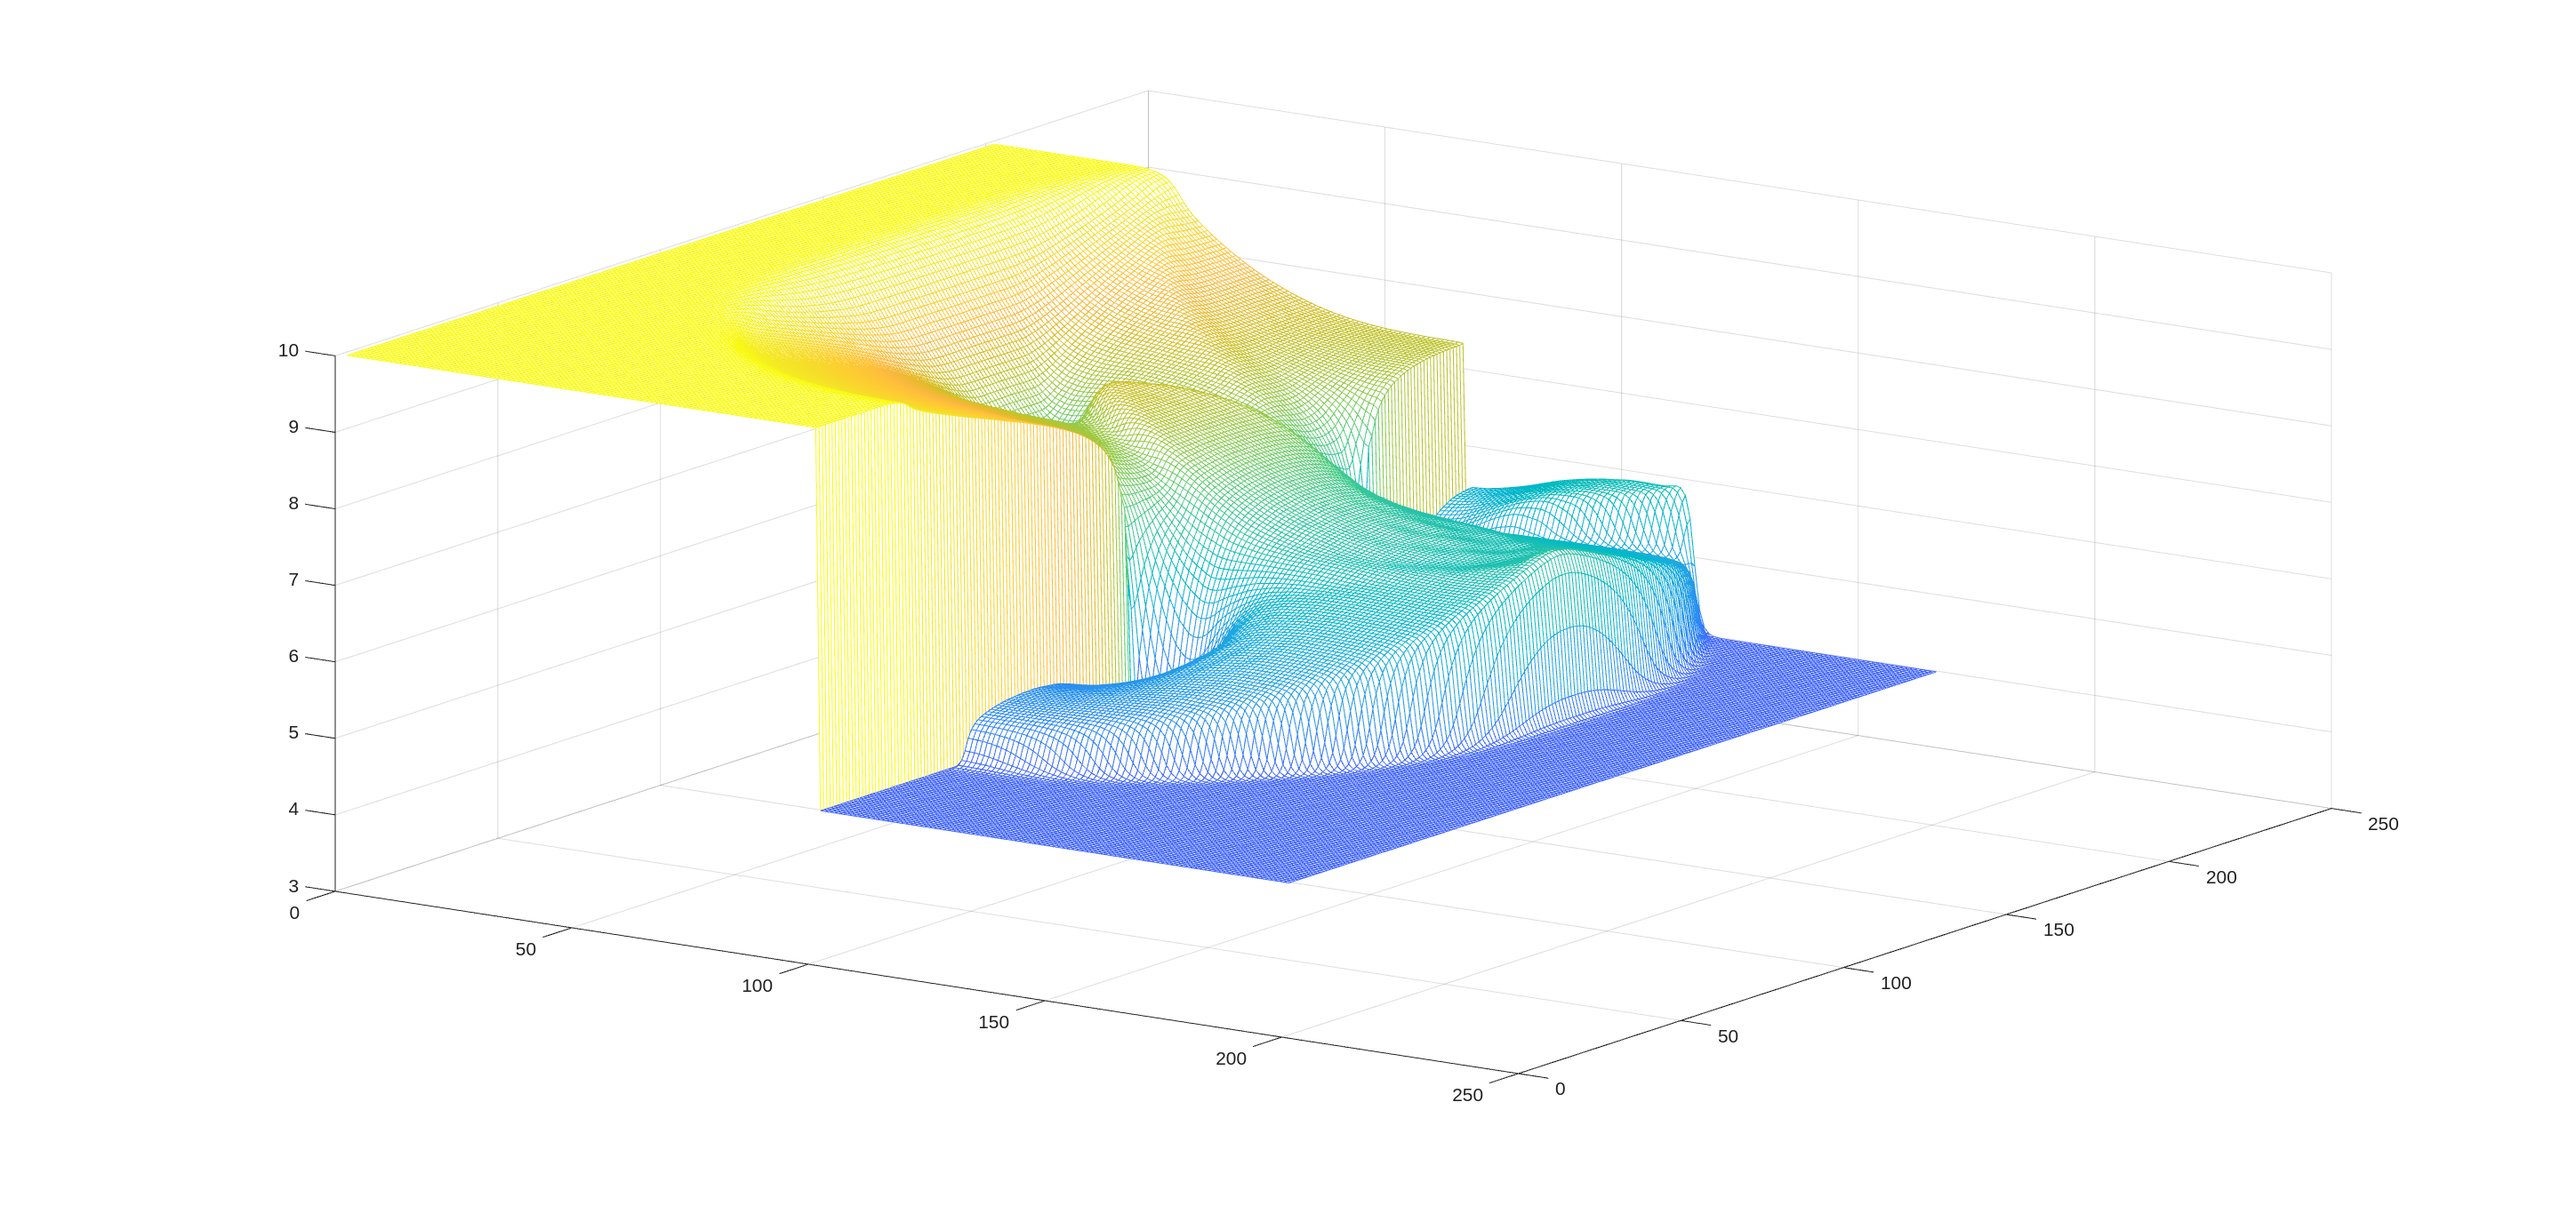
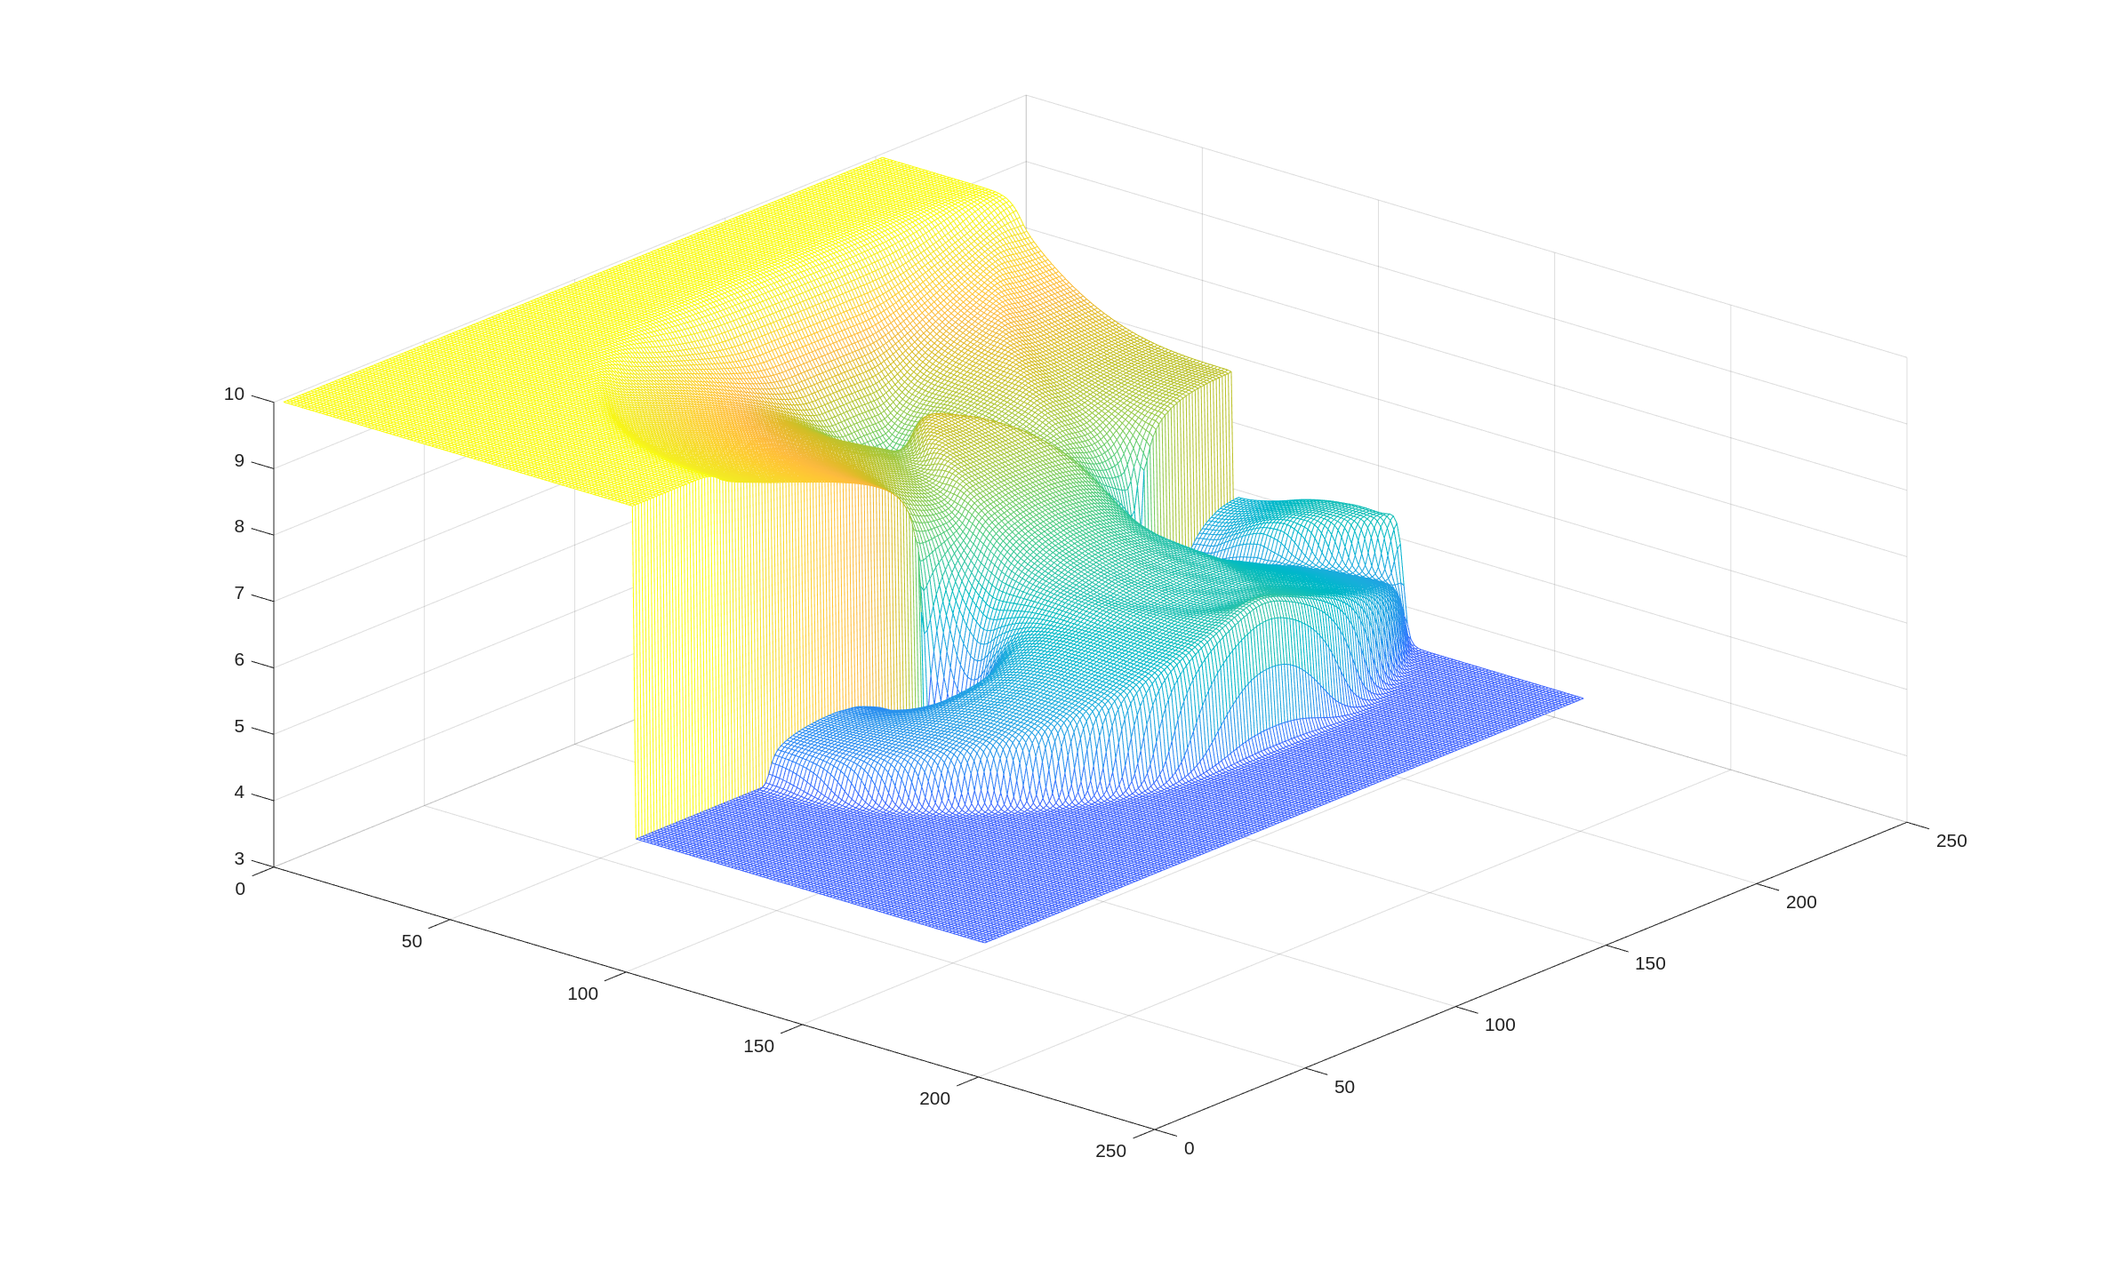
Parallelize the Rusanov code and make the figure to compare the results with 1 threads

diff --git a/2DShallow-water-Dam-Break-OMP/main.c b/2DShallow-water-Dam-Break-OMP/main.c
@@ -103,6 +103,7 @@ void Calculation(float *u,float *v,float *s,float *mass_F,float *momentum_F_X,fl
 	for (int timestep = 0; timestep < MAX_TIMESTEPS; timestep++){
 		float Smax_X = 0.0;
 		float Smax_Y = 0.0;
+		//#pragma omp for
 		for (int i = 1;i < NX+1;i++){
 			for (int j = 1;j < NY+1;j++){
 				int index = i*(NY+2)+j;
@@ -134,7 +135,7 @@ void Calculation(float *u,float *v,float *s,float *mass_F,float *momentum_F_X,fl
   		} else {
 	            	//printf("Ran out of timesteps before reaching target time.\n");
    		}
-
+		#pragma omp for
 		for(int j = 0; j < NY+2; j++){
             		mass[0*(NY+2)+j] = mass[1*(NY+2)+j];
             		momentum_X[0*(NY+2)+j] = momentum_X[1*(NY+2)+j]; 
@@ -145,6 +146,7 @@ void Calculation(float *u,float *v,float *s,float *mass_F,float *momentum_F_X,fl
             		momentum_Y[(NX+1)*(NY+2)+j] = momentum_Y[NX*(NY+2)+j];
 
 		}
+		#pragma omp for
         	for(int i = 0; i < NX+2; i++){
             		mass[i*(NY+2)+0] = mass[i*(NY+2)+1];
             		momentum_X[i*(NY+2)+0] = momentum_X[i*(NY+2)+1];
@@ -154,7 +156,7 @@ void Calculation(float *u,float *v,float *s,float *mass_F,float *momentum_F_X,fl
             		momentum_X[i*(NY+2)+NY+1] = momentum_X[i*(NY+2)+NY];
             		momentum_Y[i*(NY+2)+NY+1] = -momentum_Y[i*(NY+2)+NY]; // 上牆反彈
         	}
-		
+		#pragma omp for
 		for(int i = 0; i < NX+2; i++){
                         for (int j = 0; j < NY+2; j++){
                                 int index = i*(NY+2)+j;
@@ -163,6 +165,7 @@ void Calculation(float *u,float *v,float *s,float *mass_F,float *momentum_F_X,fl
                                 v[index] = momentum_Y[index]/mass[index];
                         }
                 }
+		#pragma omp for
 		for(int i = 1;i < NX+1;i++){
 			for(int j = 0;j < NY+2;j++){
 				int index = i*(NY+2)+j;
@@ -180,6 +183,7 @@ void Calculation(float *u,float *v,float *s,float *mass_F,float *momentum_F_X,fl
 //			printf("mass_slope[%d] = %f\n",i,mass_slope[i]);
 			}
 		}
+		#pragma omp for
 		for(int i = 0;i < NX+2;i++){
                         for(int j = 1;j < NY+1;j++){
                                 int index = i*(NY+2)+j;
@@ -197,7 +201,7 @@ void Calculation(float *u,float *v,float *s,float *mass_F,float *momentum_F_X,fl
 //                      printf("mass_slope[%d] = %f\n",i,mass_slope[i]);
                         }
                 }
-
+		#pragma omp for
 //		printf("mass_slope[%d] = %f\n",i,mass_slope[i]);
 		for(int i = 1;i < NX+1;i++){
 			for(int j = 0;j < NY+2;j++){
@@ -216,6 +220,7 @@ void Calculation(float *u,float *v,float *s,float *mass_F,float *momentum_F_X,fl
 			}
 			//printf("momentum_slope[%d] = %f\n",i,momentum_slope[i]);
                 }
+		#pragma omp for
 		for(int i = 1;i < NX+1;i++){
 			for(int j = 0;j < NY+2;j++){
                                 int index = i*(NY+2)+j;
@@ -233,6 +238,7 @@ void Calculation(float *u,float *v,float *s,float *mass_F,float *momentum_F_X,fl
 			}
                         //printf("momentum_slope[%d] = %f\n",i,momentum_slope[i]);
                 }
+		#pragma omp for
 		for(int i = 0;i < NX+2;i++){
                         for(int j = 1;j < NY+1;j++){
                                 int index = i*(NY+2)+j;
@@ -250,6 +256,7 @@ void Calculation(float *u,float *v,float *s,float *mass_F,float *momentum_F_X,fl
 			}
                         //printf("momentum_slope[%d] = %f\n",i,momentum_slope[i]);
                 }
+		#pragma omp for
 		for(int i = 1;i < NX+1;i++){
                         for(int j = 0;j < NY+2;j++){
                                 int index = i*(NY+2)+j;
@@ -268,6 +275,7 @@ void Calculation(float *u,float *v,float *s,float *mass_F,float *momentum_F_X,fl
                         //printf("momentum_slope[%d] = %f\n",i,momentum_slope[i]);
                 }
 		//X direction flux
+		#pragma omp for
 		for (int i = 1; i < NIF_X+2; i++){
 			for (int j = 0; j < NY+2; j++){
 				int index = i*(NY+2)+j;
@@ -315,6 +323,7 @@ void Calculation(float *u,float *v,float *s,float *mass_F,float *momentum_F_X,fl
         	}
 
 		//Y direction flux
+		#pragma omp for
 		for (int i = 0; i < NX+2; i++){
                         for (int j = 1; j < NIF_Y+2; j++){
                                 int index = i*(NY+2)+j;
@@ -362,6 +371,7 @@ void Calculation(float *u,float *v,float *s,float *mass_F,float *momentum_F_X,fl
 				momentum_G_Y[index] = 0.5*(mom_Bottom_Y + mom_Top_Y) - 0.5*S*(mass_T * v_T - mass_B * v_B);
                         }
                 }
+		#pragma omp for
 		for(int i = 1;i < NX+1;i++){
 			for (int j = 1; j < NY+1; j++){
 				int index = i*(NY+2)+j;
@@ -373,8 +383,9 @@ void Calculation(float *u,float *v,float *s,float *mass_F,float *momentum_F_X,fl
 				momentum_X[index] = momentum_X[index] - (DT*(momentum_F_X[index+NY+2]-momentum_F_X[index])/DX)-(DT*(momentum_G_X[index+1]-momentum_G_X[index])/DY);
 				momentum_Y[index] = momentum_Y[index] - (DT*(momentum_F_Y[index+NY+2]-momentum_F_Y[index])/DX)-(DT*(momentum_G_Y[index+1]-momentum_G_Y[index])/DY);
 //			printf("%f,%f\n",mass[i],momentum[i]);
-			} 
+			}
 		}
+		#pragma omp for
 		for(int i = 0;i < NX+2;i++){
                         for (int j = 0; j < NY+2; j++){
                                 int index = i*(NY+2)+j;
@@ -410,8 +421,14 @@ int main() {
 
         Allocate_memory(&u,&v,&s,&mass_F,&momentum_F_X,&momentum_F_Y,&mass_G,&momentum_G_X,&momentum_G_Y,&mass,&momentum_X,&momentum_Y,&h,
 	&mass_slope_X,&momentum_slope_X_X,&momentum_slope_X_Y,&mass_slope_Y,&momentum_slope_Y_X,&momentum_slope_Y_Y);
+
+	omp_set_num_threads(8);
+        #pragma omp parallel
+        {
+        int tid = omp_get_thread_num();
 	Calculation(u,v,s,mass_F,momentum_F_X,momentum_F_Y,mass_G,momentum_G_X,momentum_G_Y,mass,momentum_X,momentum_Y,h,
 	mass_slope_X,momentum_slope_X_X,momentum_slope_X_Y,mass_slope_Y,momentum_slope_Y_X,momentum_slope_Y_Y);
+	}
 	FILE *fp = fopen("results.dat", "w");
     	for (int j = 1; j < NX+1; j++) {
 		 for (int k = 1; k < NY+1; k++) {
